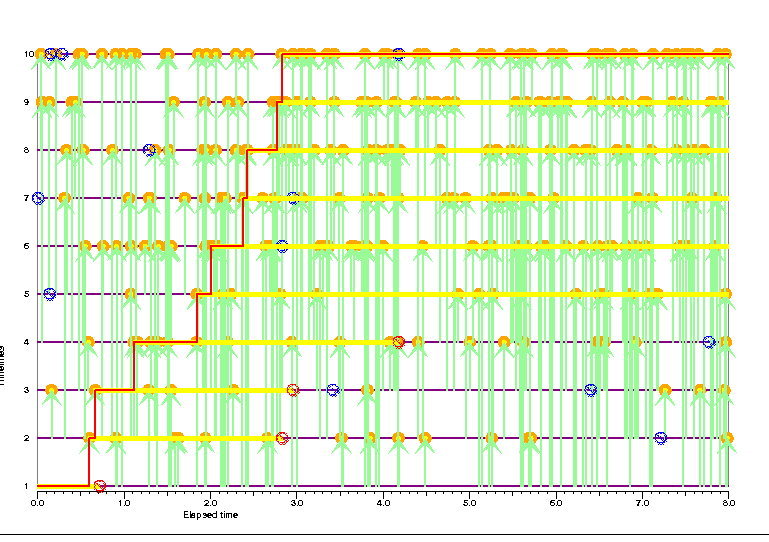
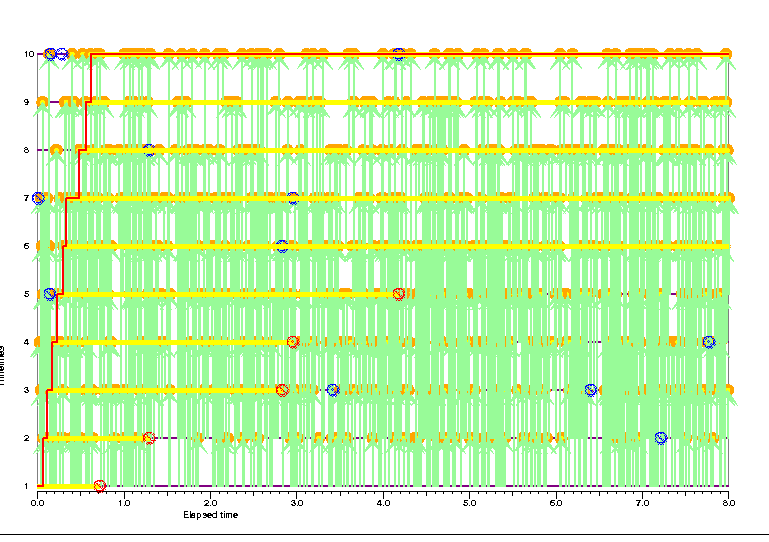
Refactored so that computations are carried out mostly in epidemic.py. Added graphic elements to focus attention on when infections are latent not just putative.

diff --git a/python/static.py b/python/static.py
@@ -52,7 +52,7 @@ from pprint import pformat # only needed when logging!
 from random import expovariate, random, seed
 
 from PIL import Image
-from itertools import combinations, count, chain
+from itertools import combinations, count, chain, zip_longest
 
 from epidemic import Innovations, FreeEpidemic
 
@@ -119,8 +119,8 @@ class Display(tk.Tk):
                 else:
                     raise BadKeyError(key)
                 logging.info('Creating Checkbutton for %s' % key)
-                cb = tk.Checkbutton(f, text=tag, **bprops,
-                    command=lambda key=key: self.toggle(key=key), indicatoron=False)       
+                cb = tk.Checkbutton(f, text=tag, **bprops, indicatoron=False,
+                    command=lambda key=key: self.toggle(key=key))       
                 cb.pack(padx=1, side=tk.LEFT)
             frm11.pack(side=tk.TOP, fill=tk.X)
             frm12.pack(side=tk.TOP, fill=tk.X)
@@ -255,32 +255,33 @@ def main(opt, arguments):
         rel = literal_eval(opt.remove)
         ill = literal_eval(opt.infect)
         T = max(max(chain(*rel)), max(chain(*[chain(*x) for x in ill])))
+        pop = len(rel)
     else:
         logging.info('Create data using rng seeded by %s', int(opt.seed))
         seed(int(opt.seed))
-        num = int(opt.n)
+        pop = int(opt.n)
         T = float(opt.T)
         alfa = float(opt.alfa)
         beta = float(opt.beta)
         if opt.consistent is None:
             # Note that the simulations here do not couple well over varying #T#.
             # This could be arranged if we used a marked point process.
-            rel = [poisson(beta * T, 0, T) for i in range(num)]
-            ill = [[poisson(alfa * T, 0, T) for j in range(i + 1)] for i in range(num - 1)]
+            rel = [poisson(beta * T, 0, T) for i in range(pop)]
+            ill = [[poisson(alfa * (pop - i) * T, 0, T) for j in range(i)] for i in range(1, pop)]
         else:
             # WARNING: This code as yet untested.
             logging.info('Create consistent data using rng')
-            gam = (num * (num - 1) / 2) * alfa + num * beta
-            divide = (num * (num - 1) / 2) * alfa / gam
-            rel = [[] for dummy in range(num)]
-            ill = [[[] for dummy in range(r)] for r in range(num - 1, 0, -1)]
-            idx = list(combinations(range(num),2))
+            gam = (pop * (pop - 1) / 2) * alfa + pop * beta
+            divide = (pop * (pop - 1) / 2) * alfa / gam
+            rel = [[] for dummy in range(pop)]
+            ill = [[[] for dummy in range(r)] for r in range(pop - 1, 0, -1)]
+            idx = list(combinations(range(pop),2))
             for t, u in marked_poisson(gam, 0, T):
                 if u > divide:
-                    ix = floor(num * (u - divide) / (1 - divide))
+                    ix = floor(pop * (u - divide) / (1 - divide))
                     rel[ix].append(t)
                 else:
-                    a, b = idx[floor((num * (num - 1) / 2) * u /divide)]
+                    a, b = idx[floor((pop * (pop - 1) / 2) * u /divide)]
                     ill[a][b - a - 1].append(t)
 
     logging.info('Set-up innovations structure')
@@ -288,45 +289,49 @@ def main(opt, arguments):
     logging.info('r: %s' % pformat(innov.remove))
     logging.info('i: %s' % pformat(innov.infect))
 
-    logging.info('Compute epidemic')
-    epidemic = FreeEpidemic(innovations=innov)
-    traj = epidemic()
-    logging.info('t: %s' % str(traj))
-
     logging.info('Set-up Tk root and canvas')
-    pop = len(epidemic)
     app = Display(T, pop, background='white', height=720, width=1024, \
                 output=opt.output, forceoutput=opt.forceoutput)
     app.title(opt.title)
     logging.info('Display Canvas')
     c = app.canvas
 
-    logging.info('Display potential infections')
+    logging.info('Display putative infections')
     for i, lll in enumerate(innov.infect):
         for j, ll in enumerate(lll):
             for t in ll:
-                app.disk(t, i + 1, r=6, tag='11-pI')
                 app.infection(t, j, i + 1, tag='11-pI-lo')
 
-    logging.info('Display potential removals')
+    logging.info('Display putative removals')
     for i, ll in enumerate(innov.remove):
         for t in ll:
             app.removal(t, i, tag='11-pR')
 
-    logging.info('Compute infectious portions of time-lines')
-    I = traj[0][1][1]
-    infection, removal = [0] * I, []
-    for t, x in traj[1:]:
-        infection.extend([t] * (x[1] - I))
-        removal.extend([t] * (I - x[1]))
-        I = x[1]
-    if len(removal) < len(infection):
-        removal.extend([T + 0.001] * (len(infection) - len(removal))) # Not quite right!
-    for i, t0, t1 in zip(count(), infection, removal):
-        logging.info((i, t0, t1))
-        app.segment(t0, i, t1, i, tag='12-Infectious')
-        if t1 <= T:
+    logging.info('Compute and display epidemic')
+    epidemic = FreeEpidemic(innovations=innov)
+    assert(pop == len(epidemic))
+    traj, infections, removals = epidemic()
+    logging.info('t: %s' % str(traj))
+
+    logging.info('Display latent infections')
+    for i, lll in enumerate(innov.infect):
+        for j, ll in enumerate(lll):
+            for t in ll:
+                if j >= len(removals) or t <= removals[j]:
+                    app.disk(t, i + 1, r=6, tag='12-lI')
+                    app.infection(t, i, i + 1, tag='12-lIc')
+
+    logging.info('Display infectious portions of time-lines')
+    for i, (t0, t1) in zip(count(), zip_longest(infections, removals, fillvalue='-')):
+        logging.info((i, (t0, t1)))
+        try:
+            app.segment(t0, i, t1, i, tag='12-Infectious')
             app.removal(t1, i, tag='12-R') 
+        except TypeError:
+            app.segment(t0, i, T, i, tag='12-Infectious')
+    logging.info('Also display activated infections')
+    for i, t in zip(count(), infections[1:]):
+        app.infection(t, i, i + 1, tag='12-aI')
 
     logging.info('Display epidemic trajectory')
     told, iold = 0, 0

diff --git a/python/epidemic.py b/python/epidemic.py
@@ -151,12 +151,15 @@ class FreeEpidemic(object):
     Infectives, and Removals::
 
      >>> pprint(epidemic())
-     [(0, (2, 1, 0)),
-      (0.2, (1, 2, 0)),
-      (0.4, (0, 3, 0)),
-      (0.5, (0, 2, 1)),
-      (1.3, (0, 1, 2)),
-      (2, (0, 0, 3))]
+     ([(0, (2, 1, 0)),
+       (0.2, (1, 2, 0)),
+       (0.4, (0, 3, 0)),
+       (0.5, (0, 2, 1)),
+       (1.3, (0, 1, 2)),
+       (2, (0, 0, 3))],
+      [0, 0.2, 0.4],
+      [0.5, 1.3, 2])
+
      >>> print(epidemic(pretty=True))
      Time    S, I, R
      0.00   (2, 1, 0)
@@ -165,6 +168,10 @@ class FreeEpidemic(object):
      0.50   (0, 2, 1)
      1.30   (0, 1, 2)
      2.00   (0, 0, 3)
+     Infections at:
+     [0, 0.2, 0.4]
+     Removals at:
+     [0.5, 1.3, 2]
 
     """
     def __init__(self, innovations=None):
@@ -199,6 +206,19 @@ class FreeEpidemic(object):
         # Return list of incidents sorted by time.
         return sorted(list(chain(rem, inf)))
 
+    def _infectious_periods(self, trajectory):
+        """
+        Returns two lists of start-times and (if known) end-times of infectious periods.
+        """
+        logging.info("Compute initial number of infectives in trajectory")
+        I = trajectory[0][1][1]
+        infections, removals = [0] * I, []
+        for t, x in trajectory[1:]:
+            infections.extend([t] * (x[1] - I))
+            removals.extend([t] * (I - x[1]))
+            I = x[1]
+        return infections, removals
+
     def __call__(self, infe=1, pretty=False):
         """
         Returns a sequence of changes of state of an SIR epidemic driven by
@@ -231,12 +251,15 @@ class FreeEpidemic(object):
                     infe -= 1
                     remo += 1
                     trajectory.append((ttt, (susc, infe, remo)))
+        infections, removals = self._infectious_periods(trajectory)
         if pretty:
             summary = ["Time    S, I, R"]
             summary.extend(["%4.2f   %s" % (ins, str(ev)) for ins, ev in trajectory])
+            summary.append("Infections at:\n%s" % str(infections))
+            summary.append("Removals at:\n%s" % str(removals))
             return '\n'.join(summary)
         else:
-            return trajectory
+            return trajectory, infections, removals
 
 
 # \section{Functions}

diff --git a/python/epidemic-doc.md b/python/epidemic-doc.md
@@ -35,6 +35,11 @@ Note the form of the `Innovations` structure:
      0.50   (0, 2, 1)
      1.30   (0, 1, 2)
      2.00   (0, 0, 3)
+     Infections at:
+     [0, 0.2, 0.4]
+     Removals at:
+     [0.5, 1.3, 2]
+
 
 ![A graphical illustration of the resulting free SIR epidemic](image/figure1.png "Free epidemic")
 
@@ -76,6 +81,11 @@ And now we present the results of three further tests.
      Time    S, I, R
      0.00   (4, 1, 0)
      1.10   (4, 0, 1)
+     Infections at:
+     [0]
+     Removals at:
+     [1.1]
+
 
 ![Another example of a free SIR epidemic](image/figure2.png "Free epidemic")
 
@@ -115,6 +125,10 @@ And now we present the results of three further tests.
      1.10   (2, 2, 1)
      1.25   (1, 3, 1)
      1.30   (1, 2, 2)
+     Infections at:
+     [0, 0.1, 0.9, 1.25]
+     Removals at:
+     [1.1, 1.3]
 
 
 ![Yet another example of a free SIR epidemic](image/figure3.png "Free epidemic")
